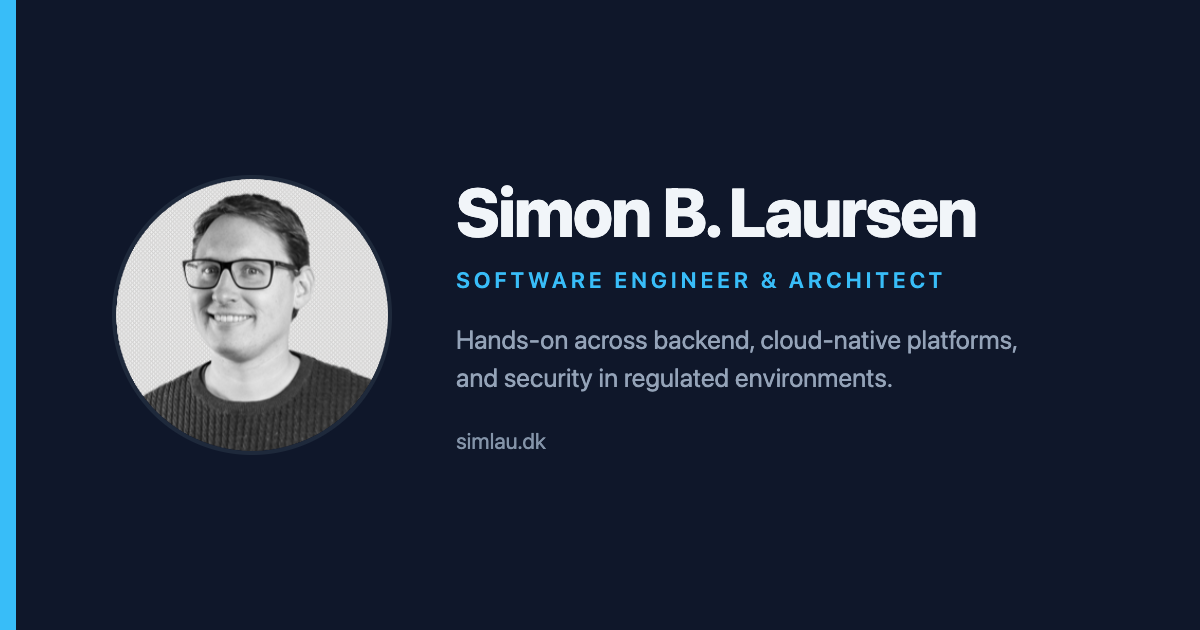
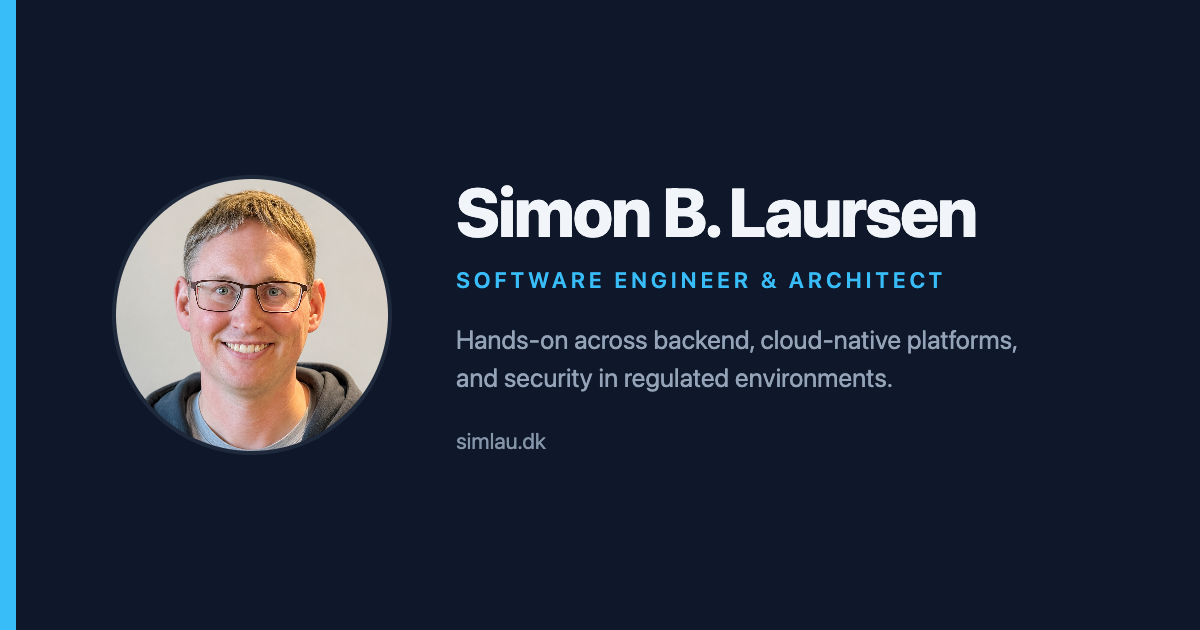
copy: use new photo in link preview image

Changed region(s): [[0.0925, 0.2714, 0.3392, 0.7238]]

diff --git a/_layouts/default.html b/_layouts/default.html
@@ -10,7 +10,7 @@
   <meta property="og:url" content="https://simlau.dk/"/>
   <meta property="og:title" content="{{ page.title }} · Software Engineer &amp; Architect"/>
   <meta property="og:description" content="{{ site.description }}"/>
-  <meta property="og:image" content="https://simlau.dk/og-image.png"/>
+  <meta property="og:image" content="https://simlau.dk/og-image.png?v=2"/>
   <meta property="og:image:width" content="1200"/>
   <meta property="og:image:height" content="630"/>
   <meta name="twitter:card" content="summary_large_image"/>
